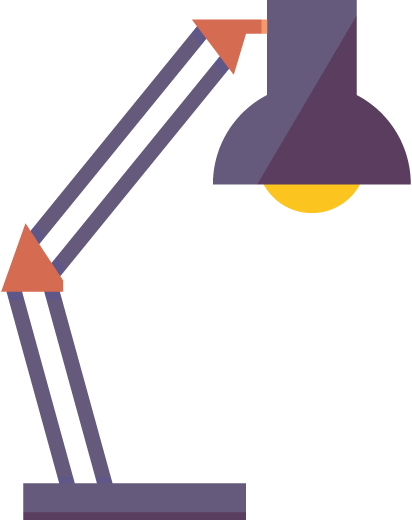
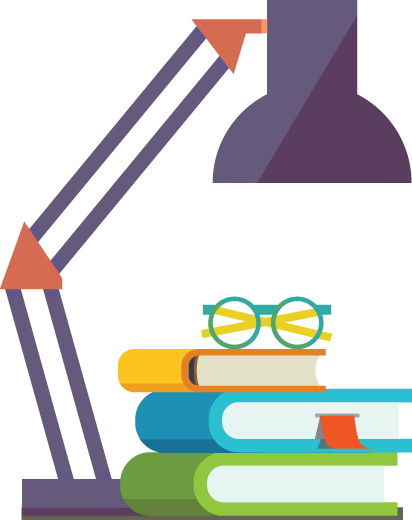
fixes

diff --git a/using-the-library/index.html b/using-the-library/index.html
@@ -291,7 +291,7 @@
   </div>
   <div class="row bg-lichen padding-top-40">
     <div class="container">
-      <div class="col-md-6 col-md-push-6 padding-top-60 padding-bottom-15"> <img class="center-block" src="http://placehold.it/400x240"> </div>
+      <div class="col-md-6 col-md-push-6 padding-top-60 padding-bottom-15"> <img class="center-block" src="bookclub.png"> </div>
       <div class="col-md-6 col-md-pull-6 padding-top-15 padding-bottom-30">
         <div class="padding-top-15 padding-bottom-15">
           <h2 class="josefin"><a class="fff text-underline" href="../book-clubs">Book Clubs</a></h2>
